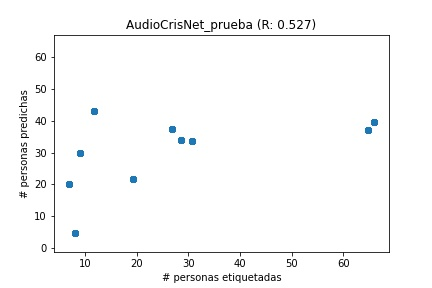
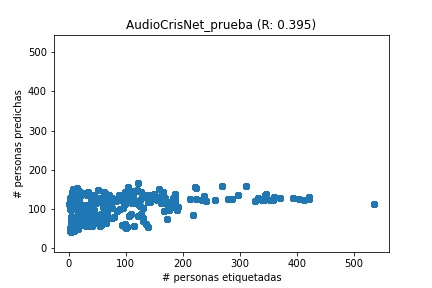
Corrected normalization and load in Audio*nets

diff --git a/generar_regression_plot.py b/generar_regression_plot.py
@@ -31,13 +31,19 @@ for fil in files:
 
     if title[:4] in ['UNet', 'CANN', 'CSRN']:
         norm = 1/100
+    elif 'Audio' in title:
+        norm = 100
     else:
         norm = 1
     #%% 
 
     if type(b['yreal']) is list:
-        yreal = np.array([el.sum() for el in b['yreal']])
-        ypredicha = np.array([el.sum() for el in b['ypredicha']])
+        if b['yreal'][0].ndim>1:
+            yreal = np.array([el.sum() for el in b['yreal']])
+            ypredicha = np.array([el.sum() for el in b['ypredicha']])
+        else:
+            yreal = np.concatenate(b['yreal'])
+            ypredicha = np.concatenate(b['ypredicha'])
     else:
         yreal = b['yreal']
         ypredicha = b['ypredicha']
